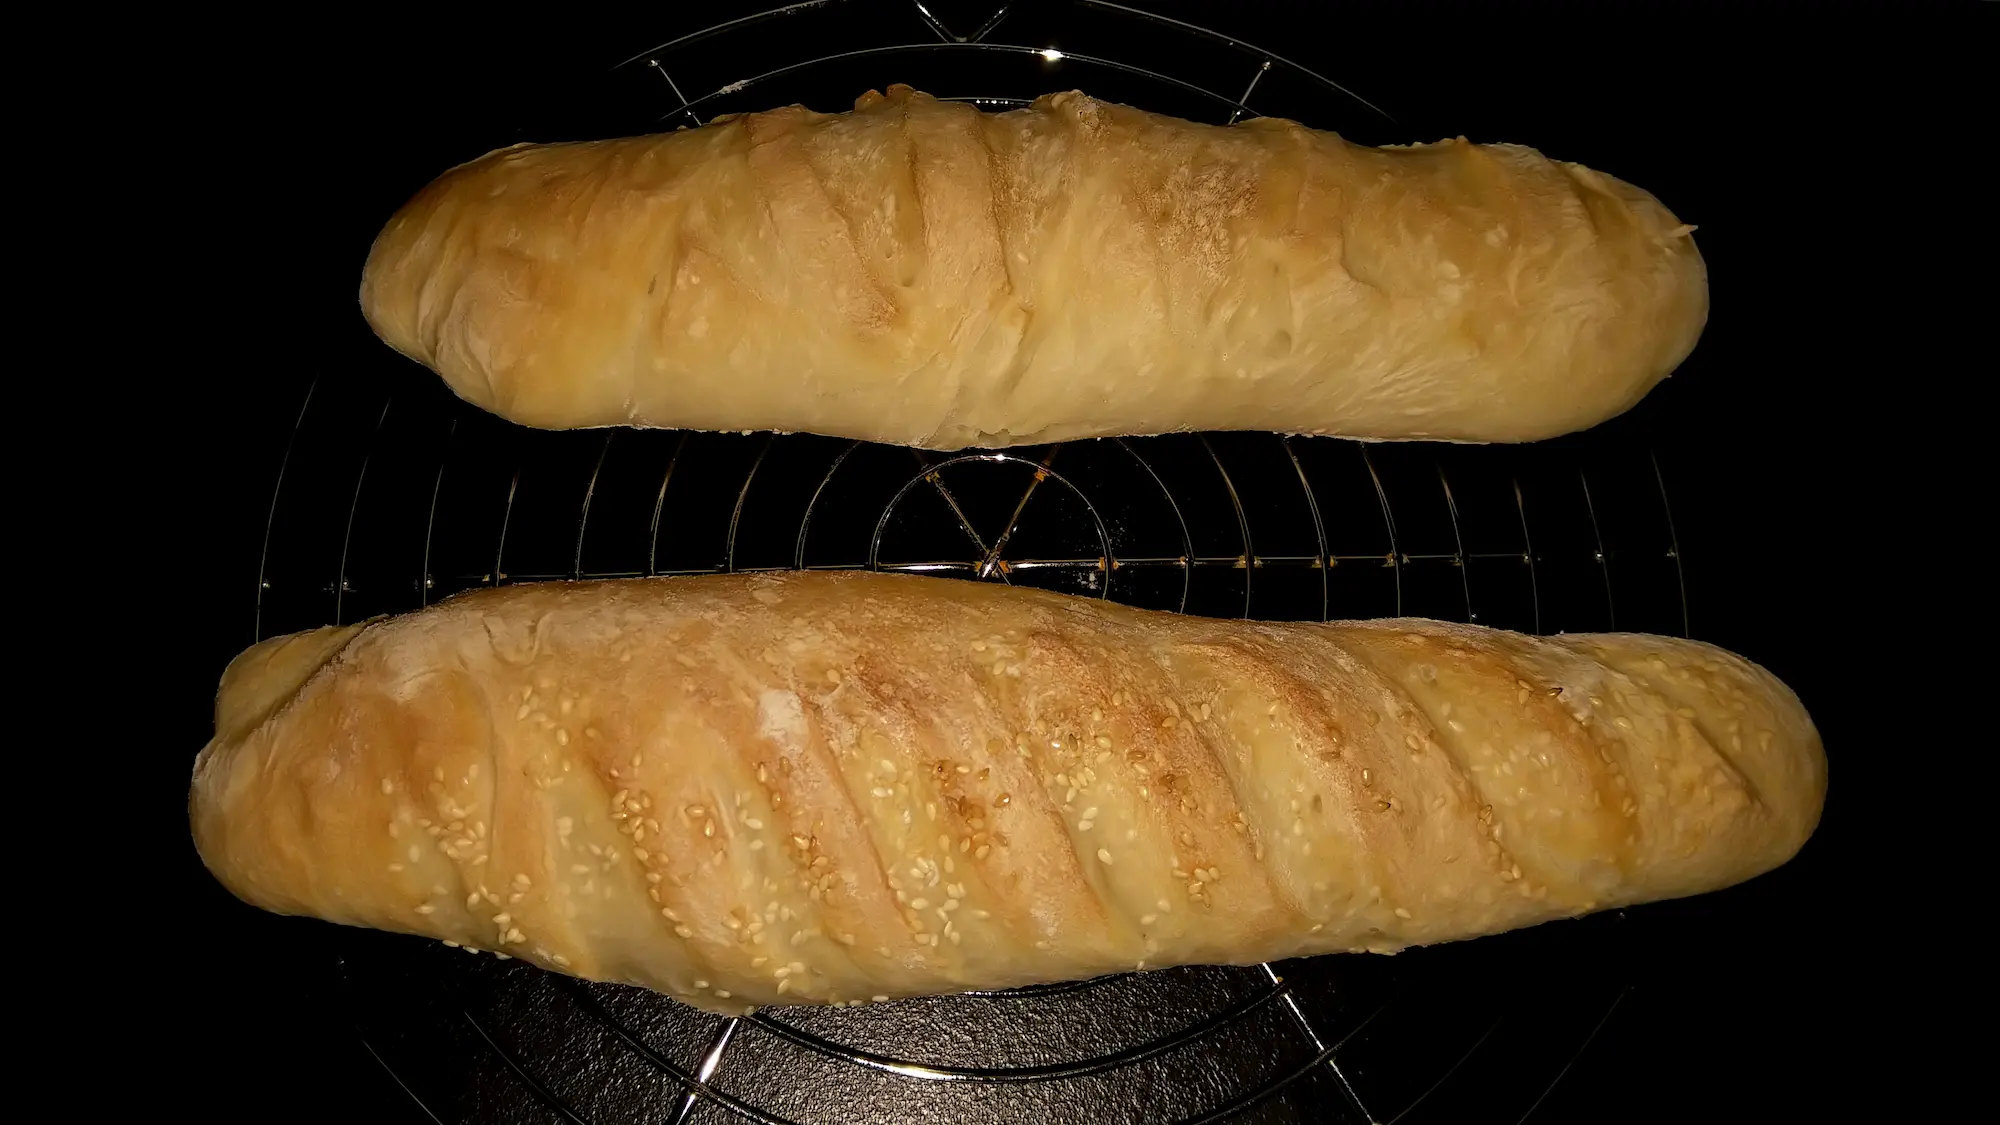
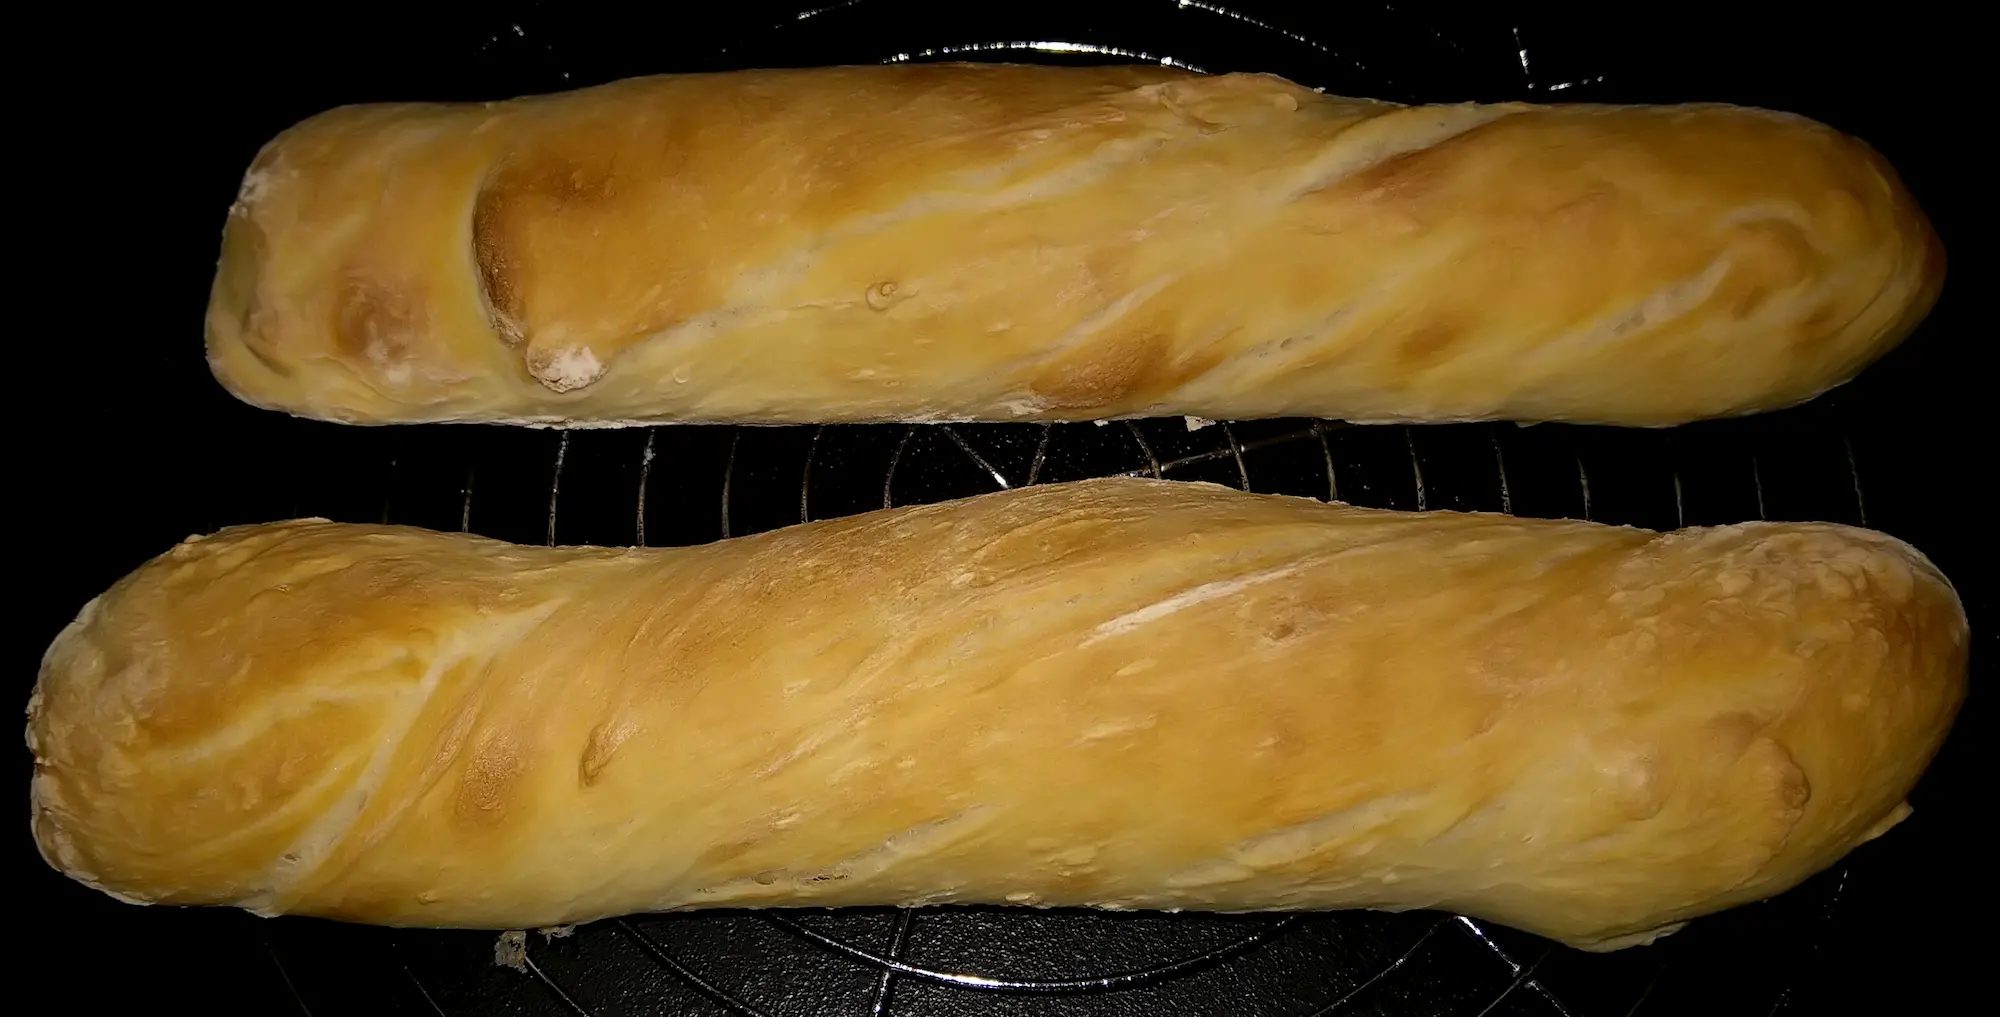
baguette update

diff --git a/_recipes/baguette.md b/_recipes/baguette.md
@@ -20,11 +20,11 @@ ingredients:
 directions:
   - 1/4 Hefewürfel, lauwarmes Wasser, Mehl, Salz und Zucker in Schüssel geben
   - Mit Küchenmaschine gut durchkneten (ca 2min Stufe 2, dann Teig in die Mitte putzen, danach 5min Stufe 3)
-  - Teig nochmal in die Mitte putzen und Schüssel zugedeckt 1,5h gehen lassen
+  - Teig mit Teigkarte auf Blech mit bemehltem Backpapier rausputzen, oben Mehl draufgeben und dann zurück in die Schüssel geben und zugedeckt 1h gehen lassen
   - Nach Rastzeit, Backrohr vorheizen und ein volles Häferl heißes Wasser ins Backrohr stellen
-  - Dann Teig mit Knethaken vorsichtig aus Schüssel auf bemehltes Blech kippen, darauf etwas Mehl verteilen, in 2 Stücke zerteilen und beide Baguettes langsam länglich ausziehen und spiralförmig drehen (dadurch behalten sie die Form)
-  - Wenn Backrohr vorgeheizt, Baguette mit dem Messer einige Mal schräg einschneiden, anschließend mit Wasser besprühen und ca 19min bei 240°C Ober/Unterhitze backen
+  - Dann Teig vorsichtig wieder auf bemehltes Backpapier putzen, darauf etwas Mehl verteilen, in 2 Stücke zerteilen und beide Baguettes langsam länglich ausziehen und spiralförmig drehen (dadurch behalten sie die Form)
+  - Wenn Backrohr vorgeheizt, Baguettes mit Wasser besprühen und ca 19min bei 240°C Ober/Unterhitze backen
+  - Nach dem Herausnehmen nochmal reichlich mit Wasser besprühen
 ---
 
-- Verbesserungsidee: Nach Kneten außen mit etwas Mehl bestäuben damit Teig leichter aus Schüssel geht
-- nach der Rastzeit von 1,5h das Baguette nicht (oder nur ganz kurz) kneten und sofort den Teig mit einer Teigkarte auf ein bemehltes Backblech herausputzen (so bleibt der Teig luftiger)
+- Verbesserungsidee: testen ob 1,5h Rastzeit besser werden. 1h war perfekt, teig könnte aber evtl etwas luftiger sein
